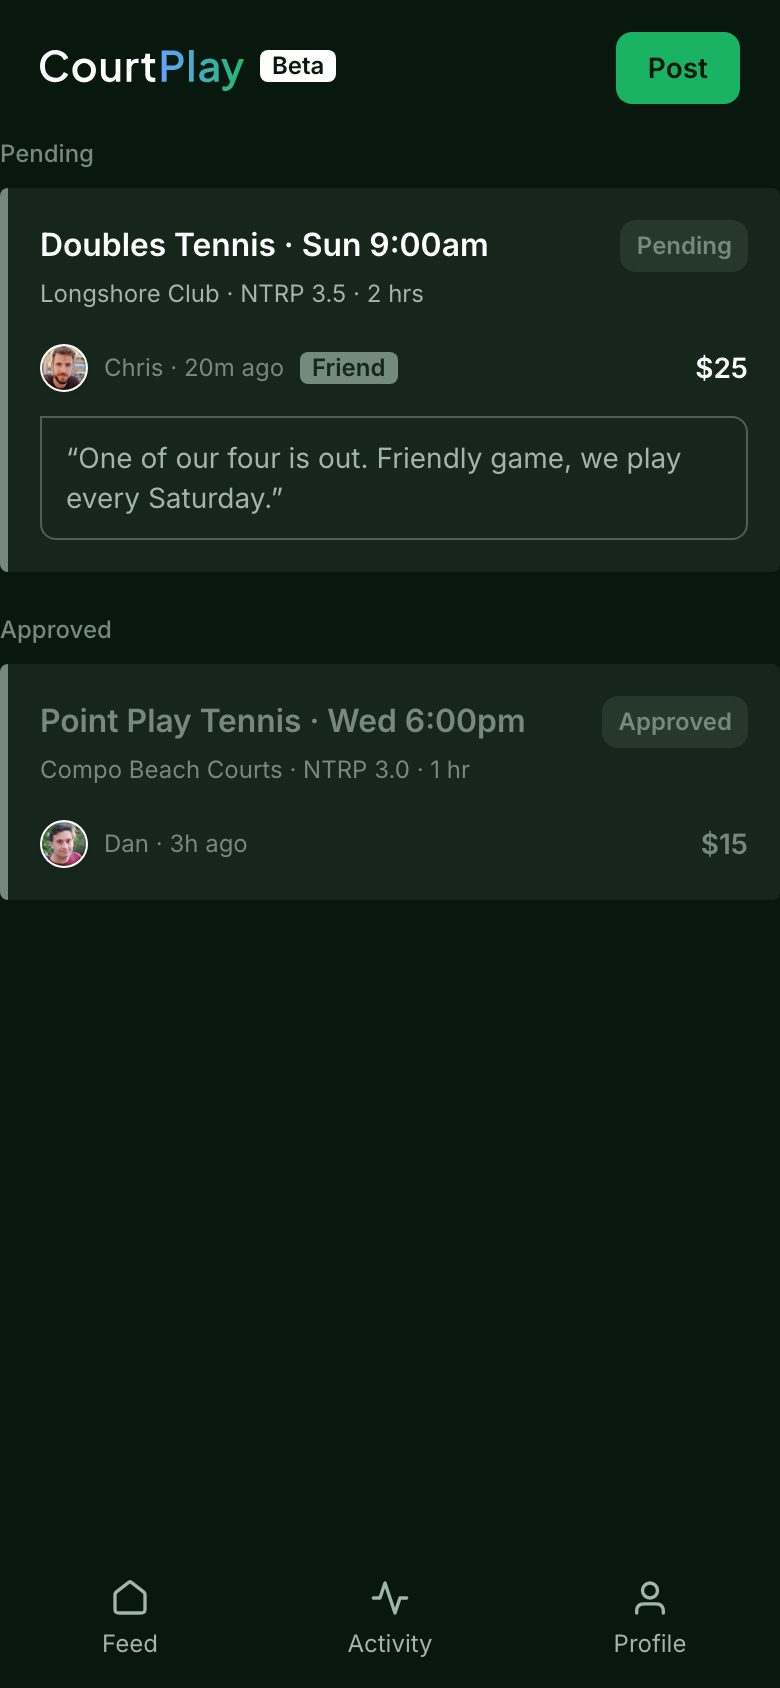
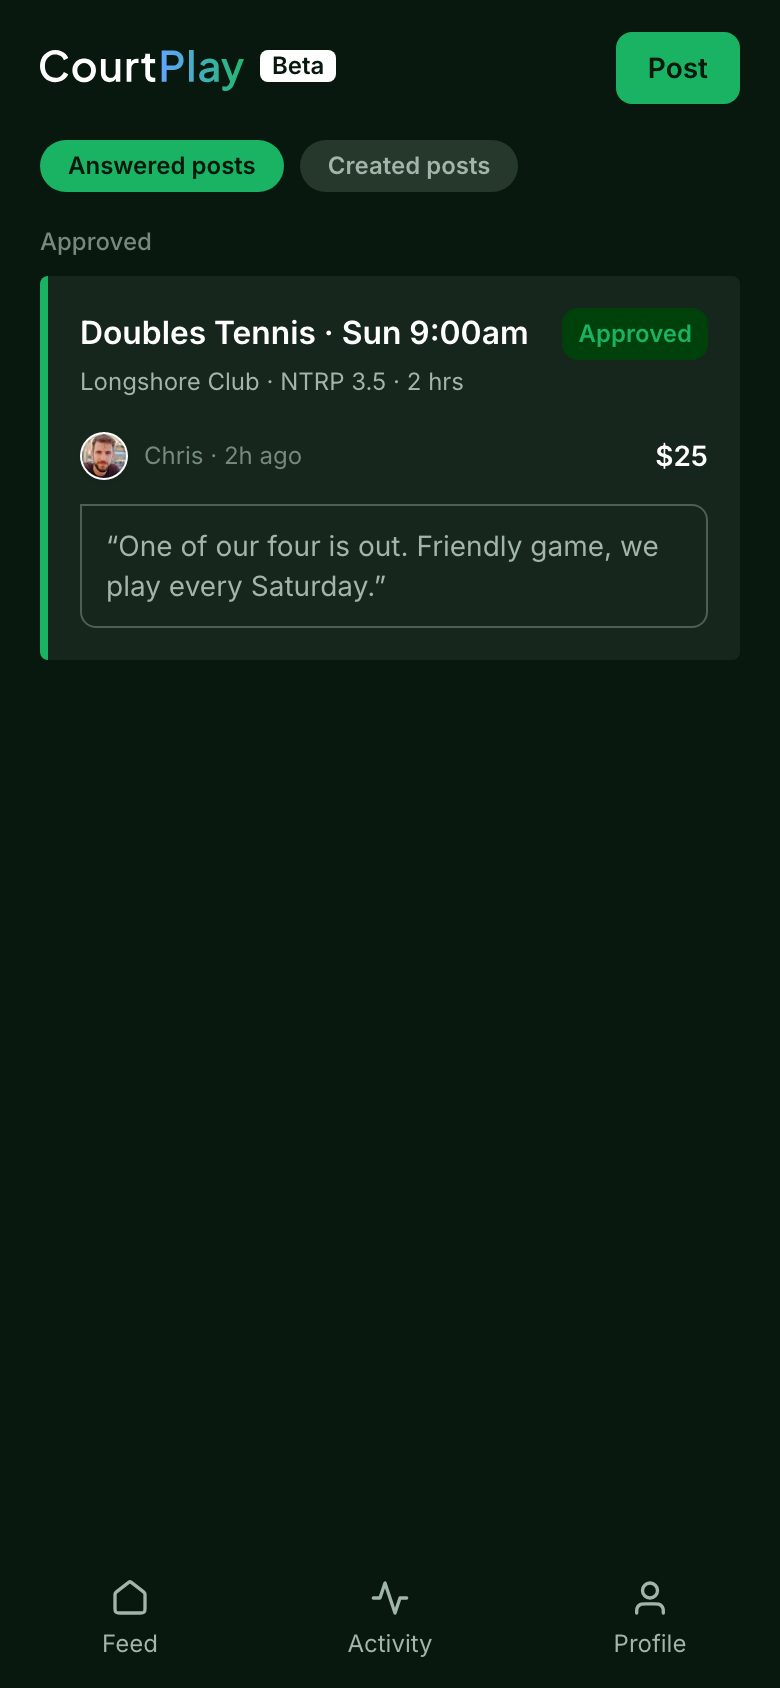
Photograph the real pages, not compositions of their parts
Four screenshots were missing elements. The cause was structural: the demo
screens composed each page from its components, and a composition is always
thinner than the page it imitates. The post form lost every field below the
type picker, Activity lost its tabs and sections, the profile lost its header
and stats.

So the demo screens now render Feed, PostNew, Activity and Profile themselves.
The two SHEETS stay compositions, because a sheet genuinely is a component
rendered over a page -- that is how the app does it.

Rendering real pages means answering what they fetch, so src/demo/supabase-mock
serves fixtures for the six reads involved. DEMO=1 aliases @/lib/supabase to it
for the capture; the fingerprint test mocks the same path to the same module,
so both engines still render one tree.

Three things that had to be right:

Alias ORDER. Vite walks resolve.alias in order, so "@" matched "@/lib/supabase"
first and rewrote it to the real client -- the pages rendered a permission
error against production instead of fixtures. The specific mapping now comes
first, and alias is an array to make the ordering explicit.

Routes. The pages were wrapped in <Route path="/feed"> inside a MemoryRouter
sitting at "/", so nothing matched and the captures came out blank white. They
render directly; the router context alone is enough.

First-run banners. The feed's notification stack put the welcome card and a
pending-claim notice over the posts. demo-entry marks them dismissed, and the
[…]

diff --git a/src/demo/screens.tsx b/src/demo/screens.tsx
@@ -1,42 +1,34 @@
+import { Feed } from "@/pages/feed";
+import { Activity } from "@/pages/activity";
+import { Profile } from "@/pages/profile";
+import { PostNew } from "@/pages/post-new";
 import { AppLayout } from "@/components/layout/app-layout";
 import { SubCard } from "@/components/app/sub-card";
 import { RegularPlayCard } from "@/components/app/regular-play-card";
 import { ClaimDetailSheet } from "@/components/app/claim-detail-sheet";
 import { CreatedDetailSheet } from "@/components/app/created-detail-sheet";
-import { PostTypePicker } from "@/components/app/post-type-picker";
-import { GroupCard } from "@/components/app/group-card";
-import {
-    DEMO_CLAIMED_POST,
-    DEMO_GROUPS,
-    DEMO_MY_POST,
-    DEMO_POSTER,
-    DEMO_REGULAR_POST,
-    DEMO_SUB_POST,
-    DEMO_VIEWER_ID,
-} from "./fixtures";
+import { DEMO_MY_POST, DEMO_POSTER, DEMO_SUB_POST, DEMO_REGULAR_POST, DEMO_VIEWER_ID } from "./fixtures";
 
 /**
  * The screens behind the tutorial screenshots.
  *
- * These are thin compositions of the app's REAL components against fixture
- * props — not the page containers. Feed and Activity fetch on mount, subscribe
- * to realtime and read session heuristics from localStorage; rendering those
- * would make the output depend on fetch timing rather than on the UI, in two
- * different engines. Every sheet shown here renders purely from props (they
- * import supabase but only call it inside handlers), which is what makes this
- * viable at all.
+ * These render the REAL pages wherever the design shows a whole screen. An
+ * earlier version composed each screen from its parts, and the result was
+ * always structurally thinner than the page it imitated — the post form lost
+ * every field below the type picker, Activity lost its tabs, the profile lost
+ * its header. That is what "missing elements" meant.
  *
- * KEEP EACH ONE THIN. The fingerprint test tracks these screens, not the pages,
- * so the further they drift from how the real page composes things the less the
- * staleness check is worth. A dozen lines each is the budget.
+ * Rendering the pages is possible because DEMO=1 aliases @/lib/supabase to a
+ * fixture client (src/demo/supabase-mock.ts), so nothing reaches the network.
+ * The jsdom fingerprint test mocks the same path to the same module, so both
+ * engines render the same tree.
+ *
+ * The two SHEETS stay compositions, because a sheet genuinely is a component
+ * rendered over a page — that is how the app itself does it.
  */
 const noop = () => {};
 
-/**
- * The feed, as the backdrop behind a sheet. In the app every sheet opens over
- * it — screenshotting one against an empty page would show a state that never
- * actually occurs.
- */
+/** The feed behind a sheet: in the app every sheet opens over it. */
 const FeedBehind = () => (
     <AppLayout onOpenFilters={noop}>
         <div className="flex flex-col gap-3">
@@ -46,17 +38,8 @@ const FeedBehind = () => (
     </AppLayout>
 );
 
-/** Registry key → what the capture script and the fingerprint test both render. */
 export const DEMO_SCREENS: Record<string, () => React.ReactElement> = {
-    feed: () => (
-        <AppLayout onOpenFilters={noop}>
-            <div className="flex flex-col gap-3">
-                <SubCard post={DEMO_SUB_POST} currentUserId={DEMO_VIEWER_ID} />
-                <RegularPlayCard post={DEMO_REGULAR_POST} profileComplete currentUserId={DEMO_VIEWER_ID} />
-                <SubCard post={DEMO_CLAIMED_POST} currentUserId={DEMO_VIEWER_ID} />
-            </div>
-        </AppLayout>
-    ),
+    feed: () => <Feed />,
 
     claim: () => (
         <>
@@ -69,59 +52,22 @@ export const DEMO_SCREENS: Record<string, () => React.ReactElement> = {
         <>
             <FeedBehind />
             <CreatedDetailSheet
-            post={DEMO_MY_POST}
-            poster={DEMO_POSTER}
-            onClose={noop}
-            onApprove={noop}
-            onDecline={noop}
-            onEdit={noop}
-            onDelete={noop}
-        />
+                post={DEMO_MY_POST}
+                poster={DEMO_POSTER}
+                onClose={noop}
+                onApprove={noop}
+                onDecline={noop}
+                onEdit={noop}
+                onDelete={noop}
+            />
         </>
     ),
 
-    post: () => (
-        <AppLayout>
-            <div className="flex flex-col">
-                <h1 className="mb-5 text-lg font-semibold text-primary">Create a new post</h1>
-                <PostTypePicker value="sub_need" onChange={noop} />
-            </div>
-        </AppLayout>
-    ),
+    post: () => <PostNew />,
 
-    activity: () => (
-        <AppLayout>
-            <div className="flex flex-col gap-5">
-                <div>
-                    <p className="mb-2 text-xs font-medium text-tertiary">Pending</p>
-                    <SubCard post={DEMO_SUB_POST} currentUserId={DEMO_VIEWER_ID} kindOverride="pending" />
-                </div>
-                <div>
-                    <p className="mb-2 text-xs font-medium text-tertiary">Approved</p>
-                    <SubCard
-                        post={DEMO_CLAIMED_POST}
-                        currentUserId={DEMO_VIEWER_ID}
-                        kindOverride="claimed"
-                        labelOverride="Approved"
-                    />
-                </div>
-            </div>
-        </AppLayout>
-    ),
+    activity: () => <Activity />,
 
-    groups: () => (
-        <AppLayout>
-            <div className="flex flex-col">
-                <p className="mb-1.5 text-sm font-semibold text-tertiary">Groups (2)</p>
-                <div className="flex flex-col gap-3">
-                    {DEMO_GROUPS.map((g) => (
-                        <GroupCard key={g.id} group={g} onOpen={noop} />
-                    ))}
-                </div>
-            </div>
-        </AppLayout>
-    ),
-
+    groups: () => <Profile />,
 };
 
 export type DemoScreenId = keyof typeof DEMO_SCREENS;

diff --git a/src/demo/supabase-mock.ts b/src/demo/supabase-mock.ts
@@ -1,0 +1,94 @@
+/**
+ * A fake Supabase client for the demo screens behind the tutorial screenshots.
+ *
+ * The screens render the REAL pages — Feed, Activity, Profile, the post form —
+ * rather than compositions of their parts, because the designs show whole
+ * screens and a composition is always structurally thinner than the page it
+ * imitates. That is what put "missing elements" in four screenshots.
+ *
+ * Rendering the real pages means answering what they fetch. The read surface is
+ * small and bounded:
+ *
+ *   courts                       post form's court picker
+ *   get_my_groups                post form's audience + profile's group list
+ *   get_profile                  profile
+ *   get_my_posts_with_claims     activity, created tab
+ *   get_my_claims_with_posts     activity, answered tab
+ *   get_feed                     feed
+ *
+ * Everything else resolves empty, and every write is a no-op — nothing here is
+ * ever interacted with, only photographed.
+ *
+ * Reached two ways, and both must agree or the fingerprint would police a tree
+ * the screenshot never showed: the browser gets it through a Vite alias that
+ * only exists when DEMO=1 (see vite.config.ts), and the jsdom test mocks the
+ * same module path to this file.
+ */
+import {
+    DEMO_CLAIMED_POST,
+    DEMO_GROUPS,
+    DEMO_MY_CLAIMS,
+    DEMO_MY_POST,
+    DEMO_PROFILE,
+    DEMO_PROFILE_PAGE,
+    DEMO_REGULAR_POST,
+    DEMO_SUB_POST,
+} from "./fixtures";
+
+/**
+ * Which screen is being photographed. The feed must not carry the pending-claim
+ * banner that Activity needs, or the notification stack covers the posts the
+ * slide is about — so the same RPC answers differently per screen.
+ */
+const screen = typeof location !== "undefined" ? new URLSearchParams(location.search).get("screen") : null;
+const onActivity = screen === "activity";
+
+const RPC_DATA: Record<string, unknown> = {
+    get_feed: [DEMO_SUB_POST, DEMO_REGULAR_POST, DEMO_CLAIMED_POST],
+    get_my_groups: DEMO_GROUPS,
+    get_profile: DEMO_PROFILE_PAGE,
+    get_my_posts_with_claims: onActivity ? [DEMO_MY_POST] : [],
+    get_my_claims_with_posts: onActivity ? DEMO_MY_CLAIMS : [],
+    get_post_audience: [],
+    get_my_tagged_posts: [],
+    search_users: [],
+    push_prompt_eligible: false,
+    am_i_invited: true,
+};
+
+const TABLE_DATA: Record<string, unknown[]> = {
+    courts: [
+        { id: "court-1", name: "Longshore Club", area: "Westport", active: true },
+        { id: "court-2", name: "Staples High School", area: "Westport", active: true },
+        { id: "court-3", name: "Compo Beach Courts", area: "Westport", active: true },
+    ],
+    posts: [],
+    claims: [],
+};
+
+/** Chainable and thenable, so any query shape the pages build resolves. */
+function query(rows: unknown[]) {
+    const result = { data: rows, error: null };
+    const chain: Record<string, unknown> = {};
+    for (const m of ["select", "eq", "neq", "in", "is", "not", "gte", "lte", "gt", "lt", "order", "limit", "range", "ilike", "or", "filter", "update", "insert", "upsert", "delete"]) {
+        chain[m] = () => chain;
+    }
+    chain.single = async () => ({ data: rows[0] ?? null, error: null });
+    chain.maybeSingle = async () => ({ data: rows[0] ?? null, error: null });
+    chain.then = (onFulfilled: (v: typeof result) => unknown) => Promise.resolve(result).then(onFulfilled);
+    return chain;
+}
+
+export const supabase = {
+    auth: {
+        getSession: async () => ({ data: { session: { user: { id: DEMO_PROFILE.id } } } }),
+        getUser: async () => ({ data: { user: { id: DEMO_PROFILE.id } } }),
+        onAuthStateChange: () => ({ data: { subscription: { unsubscribe: () => {} } } }),
+        signOut: async () => ({}),
+    },
+    rpc: async (name: string) => ({ data: RPC_DATA[name] ?? null, error: null }),
+    from: (table: string) => query(TABLE_DATA[table] ?? []),
+    channel: () => ({ on: () => ({ subscribe: () => ({}) }) }),
+    removeChannel: () => {},
+    storage: { from: () => ({ upload: async () => ({ error: null }), getPublicUrl: () => ({ data: { publicUrl: "" } }) }) },
+};

diff --git a/src/demo/fixtures.ts b/src/demo/fixtures.ts
@@ -238,6 +238,57 @@ export const DEMO_GROUPS: GroupSummary[] = [
     },
 ];
 
+/** What get_profile returns for the demo player's own profile. */
+export const DEMO_PROFILE_PAGE = {
+    id: DEMO_VIEWER_ID,
+    first_name: "Alex",
+    last_name: "Rivera",
+    headline: null,
+    photo_url: null,
+    skill_level: "4.0",
+    court_preferences: ["Longshore Club"],
+    new_to_westport: false,
+    follower_count: 24,
+    following_count: 2,
+    is_following: false,
+    is_own_profile: true,
+    active_posts: [],
+    following_list: [
+        { id: "demo-chris", first_name: "Chris", last_name: "B", photo_url: "/avatars/chris.jpg", skill_level: "3.5" },
+        { id: "demo-maria", first_name: "Maria", last_name: "L", photo_url: "/avatars/maria.jpg", skill_level: "4.0" },
+    ],
+};
+
+/** The answered-posts tab: a spot this player claimed. */
+export const DEMO_MY_CLAIMS = [
+    {
+        id: "demo-my-claim",
+        status: "approved",
+        created_at: ago(120),
+        rejection_reason: null,
+        post_id: DEMO_SUB_POST.id,
+        post_type: "sub_need",
+        play_type: "doubles",
+        duration: 2,
+        skill_level: "3.5",
+        notes: DEMO_SUB_POST.notes,
+        game_date: DEMO_SUB_POST.game_date,
+        game_time: DEMO_SUB_POST.game_time,
+        location: DEMO_SUB_POST.location,
+        custom_court: null,
+        cost: 25,
+        original_cost: null,
+        status_post: "active",
+        poster_id: "demo-chris",
+        poster_first_name: "Chris",
+        poster_last_name: "B",
+        poster_photo_url: "/avatars/chris.jpg",
+        poster_venmo_handle: null,
+        poster_phone: null,
+        messages: [],
+    },
+];
+
 /** The poster of DEMO_MY_POST, as the created sheet wants them. */
 export const DEMO_POSTER = {
     first_name: DEMO_PROFILE.first_name,

diff --git a/vite.config.ts b/vite.config.ts
@@ -123,8 +123,22 @@ export default defineConfig({
         }),
     ],
     resolve: {
-        alias: {
-            "@": path.resolve(__dirname, "./src"),
-        },
+        // ORDER MATTERS. Vite walks these in order, so the specific mapping has
+        // to come before "@" — otherwise "@/lib/supabase" matches "@" first and
+        // is rewritten to the real client before this is ever considered.
+        alias: [
+            // Tutorial screenshots only. `npm run capture:tutorial` runs the dev
+            // server with DEMO=1 so demo.html can render the REAL pages against
+            // fixtures instead of hitting Supabase — the designs show whole
+            // screens, and a composition of a page's parts is always thinner
+            // than the page.
+            //
+            // Never reachable from a build: `vite build` is not run with DEMO
+            // set, and demo.html is not a build input either way.
+            ...(process.env.DEMO === "1"
+                ? [{ find: /^@\/lib\/supabase$/, replacement: path.resolve(__dirname, "./src/demo/supabase-mock.ts") }]
+                : []),
+            { find: "@", replacement: path.resolve(__dirname, "./src") },
+        ],
     },
 });

diff --git a/src/__tests__/tutorial-screens.test.tsx b/src/__tests__/tutorial-screens.test.tsx
@@ -10,17 +10,10 @@ import { fingerprintElement } from "@/test/fingerprint";
 // No session, exactly as the capture browser sees it — a fresh context has none.
 // The two engines must resolve auth the same way or the fingerprint would
 // police a tree the screenshot never showed.
-vi.mock("@/lib/supabase", () => ({
-    supabase: {
-        auth: {
-            getSession: async () => ({ data: { session: null } }),
-            onAuthStateChange: () => ({ data: { subscription: { unsubscribe: () => {} } } }),
-            signOut: async () => ({}),
-        },
-        rpc: async () => ({ data: null, error: null }),
-        from: () => ({ select: () => ({ eq: () => Promise.resolve({ data: [], error: null }) }) }),
-    },
-}));
+// The same fixture client the browser gets through the DEMO=1 Vite alias. Both
+// engines must render the same tree, or the fingerprint would police something
+// the screenshot never showed.
+vi.mock("@/lib/supabase", async () => await import("@/demo/supabase-mock"));
 
 // jsdom has no IntersectionObserver; SubCard uses one to count views. The
 // browser has the real thing, and neither affects the rendered tree.

diff --git a/src/demo/demo-entry.tsx b/src/demo/demo-entry.tsx
@@ -28,6 +28,13 @@ class FrozenDate extends RealDate {
 }
 globalThis.Date = FrozenDate as DateConstructor;
 
+// Silence the first-run banners. The feed's notification stack would otherwise
+// put the welcome card, the install prompt and a claim notice over the posts —
+// none of which the tutorial is about, and all of which vary with storage state
+// rather than with the UI.
+for (const key of ["cs_welcome_done", "cs_ios_prompt_dismissed"]) localStorage.setItem(key, "1");
+localStorage.setItem("courtsub_push_prompt_dismissed", "true");
+
 const id = new URLSearchParams(location.search).get("screen") ?? "";
 const screen = DEMO_SCREENS[id];
 
